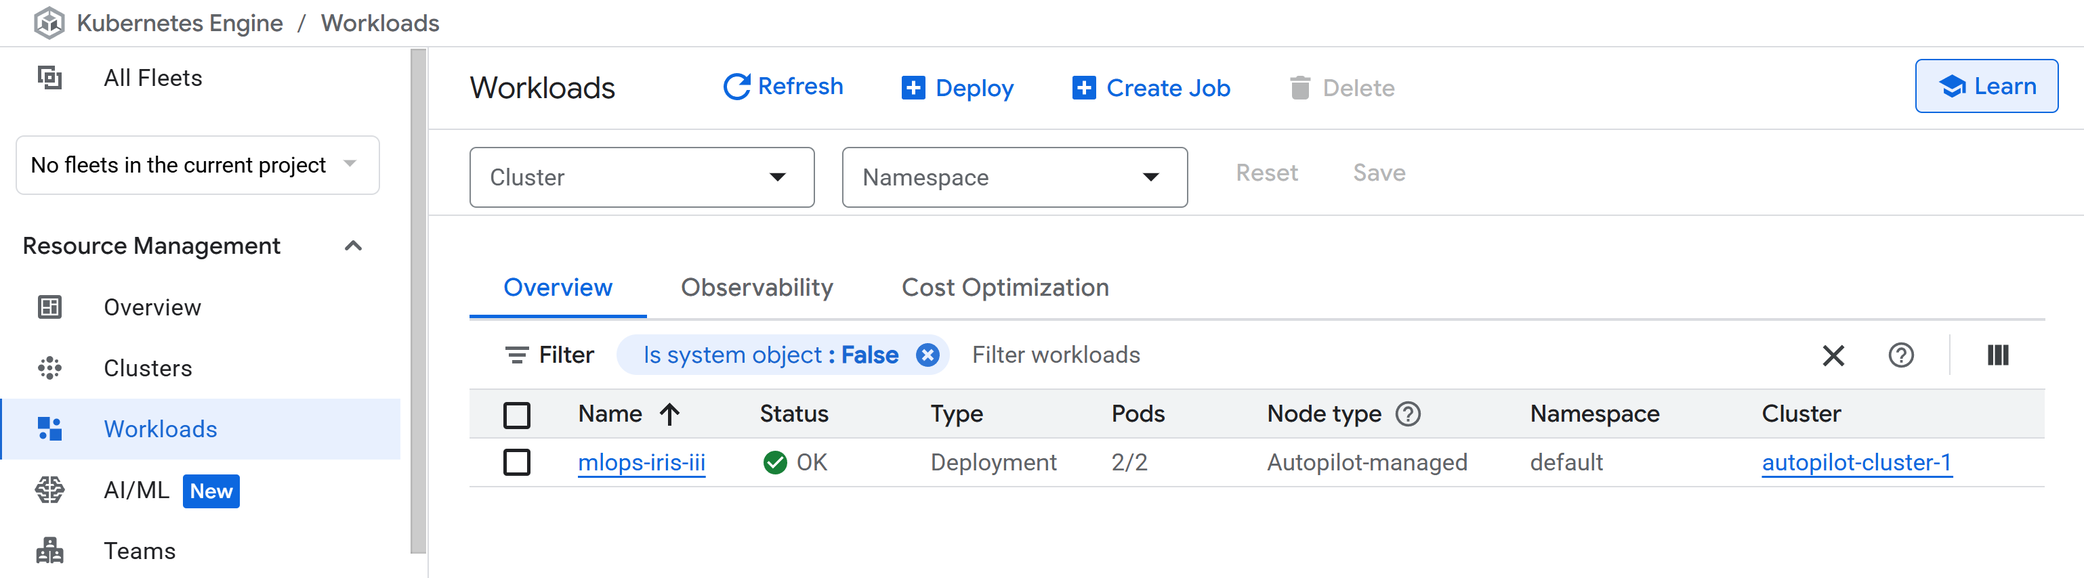
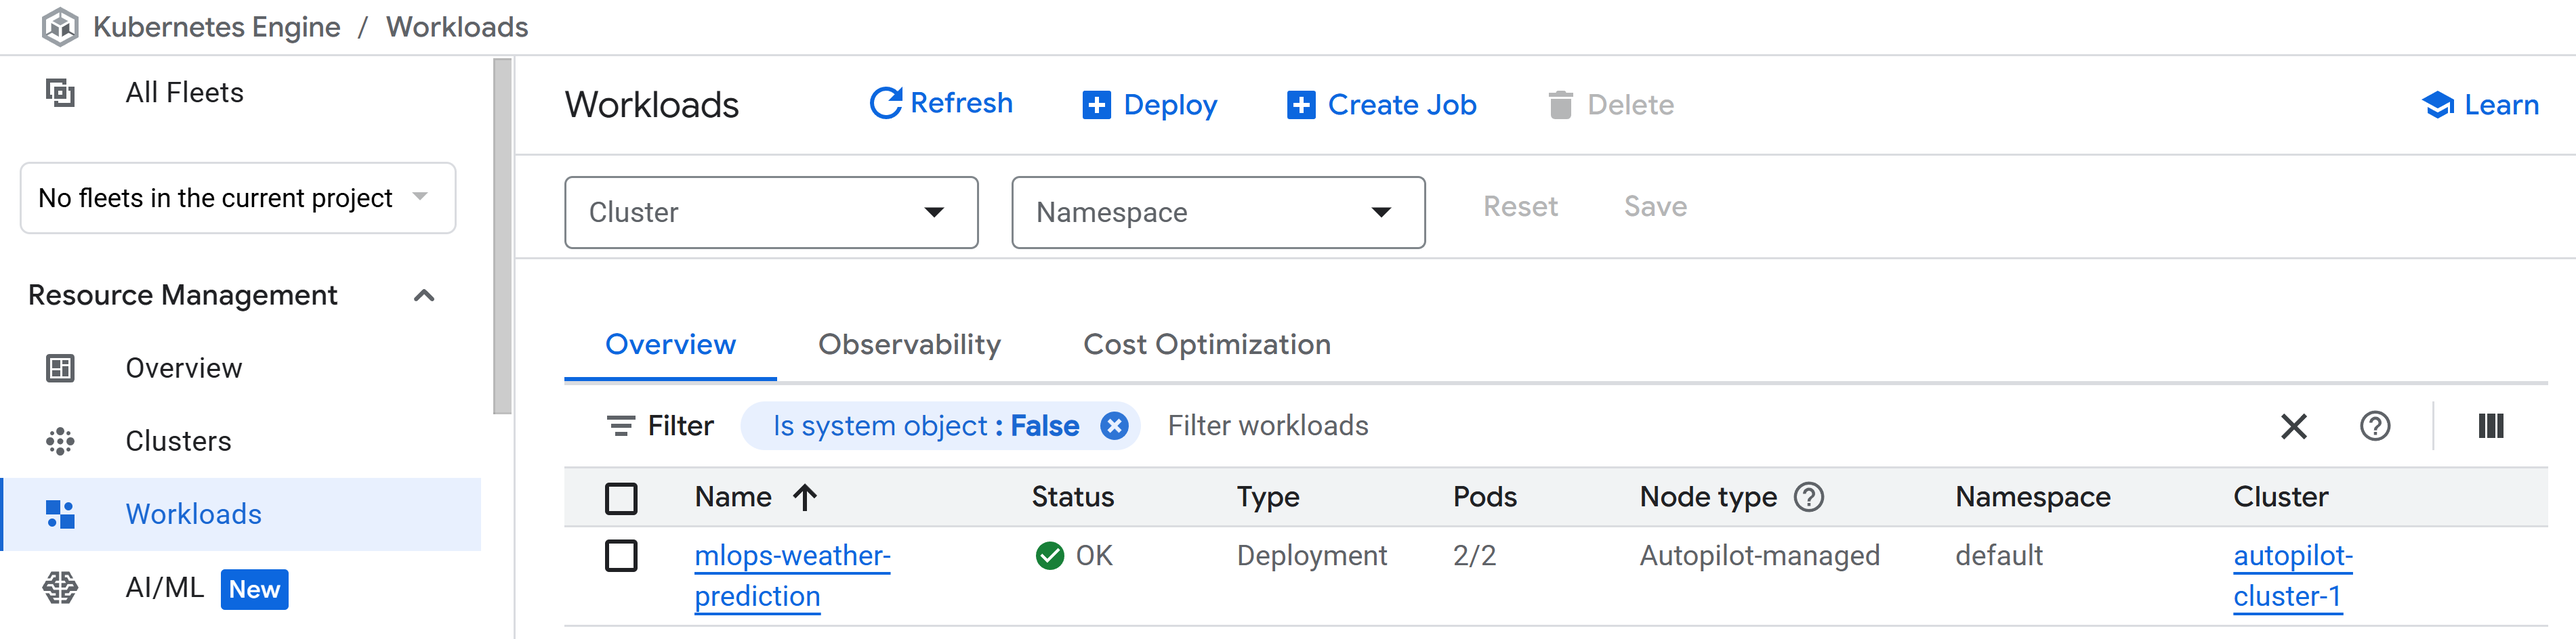
github actions stage complete

diff --git a/README.md b/README.md
@@ -1,166 +1,163 @@
+# 🌦 **MLOps Weather Prediction — End-to-End CI/CD Deployment (GitHub Actions Edition)**
 
-# 🌸 **MLOps Iris Classifier — End-to-End CI/CD Deployment (GitHub Actions Edition)**
-
-This repository demonstrates a **complete MLOps workflow** using the classic **Iris dataset**, progressing from data preprocessing and model training to full web deployment through an automated **CI/CD (Continuous Integration and Continuous Deployment)** pipeline built with **GitHub Actions** and deployed to **Google Cloud Platform (GCP)**.
+This repository demonstrates a **complete MLOps workflow** using a **weather dataset** to predict **“Will it rain tomorrow?”**, progressing from data preprocessing and model training to full web deployment through an automated **CI/CD (Continuous Integration and Continuous Deployment)** pipeline built with **GitHub Actions** and deployed to **Google Cloud Platform (GCP)**.
 
 <p align="center">
-  <img src="img/flask/flask_app.gif" alt="Deployed Flask Iris Classifier Application" style="width:100%; height:auto;" />
+  <img src="img/flask/flask_app.gif" alt="Deployed Flask Weather Prediction Application" style="width:100%; height:auto;" />
 </p>
 
-While the machine learning use case — **Iris species classification** — is intentionally simple, the project’s main objective is to showcase a **production-grade MLOps workflow** using **GitHub Actions** for automation, containerisation, and cloud deployment via **Google Kubernetes Engine (GKE)**.
+While the prediction task — **rain-tomorrow classification** — is intentionally simple, the project’s core objective is to demonstrate a **production-grade MLOps pipeline** using **GitHub Actions** for automation, containerisation, and deployment through **Google Kubernetes Engine (GKE)**.
 
 ## 🧩 **Project Overview**
 
-This project walks through the **entire lifecycle** of a machine learning system — from raw data to live deployment — using a modular, reproducible, and scalable architecture.
-Each stage builds on the previous one, ensuring consistent execution and traceability throughout the pipeline.
+This project covers the **entire machine learning lifecycle** — from raw data ingestion to live cloud deployment — using a modular, reproducible, and scalable design. Each stage builds on the previous one to ensure seamless execution, traceability, and maintainability.
 
 ### 🌱 **Stage 00 — Project Setup**
 
-A structured repository layout was established, introducing:
+A structured and maintainable repository was created with:
 
 * Core directories: `src/`, `pipeline/`, `artifacts/`, and `img/`
-* Dependency management with **`uv`** for reproducible environments
-* Editable package installation via `setup.py`
-* Logging and exception-handling frameworks for traceable experimentation
+* Dependency management via **`uv`** for environment reproducibility
+* Editable package installation through `setup.py`
+* Unified logging and exception-handling modules for transparency and debugging
 
-This created the foundation for the remaining stages.
+This laid the groundwork for a robust, production-aligned MLOps pipeline.
 
-### 💾 **Stage 01 — Data Processing**
+### 🌦 **Stage 01 — Data Processing**
 
-The **`data_processing.py`** module handled the complete preprocessing workflow:
+The **`data_processing.py`** module handled the core preprocessing steps:
 
-* Loading and cleaning the Iris dataset
-* Handling outliers and missing values
-* Splitting data into training and test sets
-* Persisting processed artefacts (`X_train.pkl`, `y_test.pkl`, etc.)
+* Loading and cleaning the weather dataset
+* Handling missing values and encoding categorical variables
+* Splitting into training and test sets
+* Persisting artefacts for reproducible experiments (`X_train.pkl`, `y_test.pkl`, etc.)
 
-All transformations were reproducible and logged to ensure consistent results.
+All transformations were logged to ensure reproducibility and transparency.
 
 ### 🧠 **Stage 02 — Model Training**
 
-The **`model_training.py`** module trained a **Decision Tree Classifier** and performed model evaluation, generating key metrics:
+The **`model_training.py`** module trained an **XGBoost classifier** to predict **RainTomorrow**, and evaluated model performance using standard classification metrics:
 
 * Accuracy, precision, recall, and F1-score
-* A confusion matrix (`confusion_matrix.png`)
-* A serialised model file (`model.pkl`)
+* Confusion matrix visualisation (`confusion_matrix.png`)
+* Serialised model file (`model.pkl`)
 
-Exception handling and centralised logging ensured reliability during training.
+All operations were wrapped in structured exception handling and logged for auditability.
 
-### 🌸 **Stage 03 — Flask Application**
+### 🌈 **Stage 03 — Flask Application**
 
-A **Flask web interface** was built to deploy the trained model as an interactive web app.
-Users can input sepal and petal dimensions and receive predictions in real time.
+A **Flask web app** was developed to deploy the trained model through a minimal, user-friendly interface.
 
-This stage introduced:
+Users can input simple weather data (Location, Date, Min/Max Temp, Humidity3pm, WindSpeed3pm, optional Rainfall) while the app **infers all other features automatically** using season-aware rules before predicting rainfall likelihood.
 
-* A responsive HTML front-end (`templates/index.html`)
-* CSS styling (`static/style.css`)
-* Flask integration via `app.py` for live inference
+Key components:
+
+* Responsive UI (`templates/index.html`)
+* Modern CSS design (`static/style.css`)
+* Flask backend for live model inference (`app.py`)
 
 <p align="center">
-  <img src="img/flask/flask_app.png" alt="Flask Iris Classifier Application" style="width:100%; height:auto;" />
+  <img src="img/flask/flask_app.png" alt="Flask Weather Prediction Application" style="width:100%; height:auto;" />
 </p>
 
 ### ⚙ **Stage 04 — Training Pipeline**
 
-The **`pipeline/training_pipeline.py`** script unified **data processing** and **model training** into a single orchestrated pipeline, automating every key step.
-
-It provides a reproducible execution workflow that can be triggered locally or by external automation tools (e.g. CI/CD).
-This was the bridge between local experimentation and cloud automation.
+The **`pipeline/training_pipeline.py`** script combined **data preprocessing** and **model training** into a unified workflow that can be executed locally or via CI/CD.
+This provided a **single orchestration layer** bridging local experimentation and automated cloud deployment.
 
 ### ☁ **Stage 05 — Google Cloud Platform (GCP) Setup**
 
-The cloud infrastructure was configured within **Google Cloud Platform** to support containerised ML workloads.
+The cloud infrastructure was prepared in **Google Cloud Platform** to host containerised workloads and manage deployments via **GKE Autopilot**.
 
-Key setup tasks included:
+Setup steps included:
 
-* Enabling APIs for **Kubernetes Engine**, **Artifact Registry**, and **Compute Engine**
-* Creating an **Artifact Registry** repository (`mlops-iris-iii`) in `us-central1`
-* Generating a **Service Account** with roles for Artifact Registry and Kubernetes deployment
-* Creating a **GKE Autopilot cluster** (`autopilot-cluster-1`) for managed workloads
+* Enabling essential APIs: **Kubernetes Engine**, **Artifact Registry**, and **Compute Engine**
+* Creating an **Artifact Registry** (`mlops-weather-prediction`) in `us-central1`
+* Setting up a **Service Account** with appropriate IAM roles
+* Creating a **GKE Autopilot cluster** (`autopilot-cluster-1`) for deployment
 
-This established the secure, scalable backbone for automated deployment.
+This established a secure, scalable environment for CI/CD and MLOps operations.
 
 ### 🚀 **Stage 06 — CI/CD Deployment (GitHub Actions → GCP)**
 
-Finally, the project integrated **GitHub Actions** to automate the build-and-deploy workflow.
-Each push to the `main` branch triggers the pipeline defined in **`.github/workflows/deploy.yml`**.
+The final stage introduced **GitHub Actions** to automate the build, test, and deploy cycle.
+Each push to the `main` branch triggers a complete end-to-end pipeline defined in **`.github/workflows/deploy.yml`**.
 
-The CI/CD sequence:
+The workflow performs:
 
-1. **Build** — Create a Docker image for the Flask app using the `Dockerfile`
+1. **Build** — Construct a Docker image for the Flask app using the project’s `Dockerfile`
 2. **Push** — Upload the image to **Google Artifact Registry**
-3. **Deploy** — Apply `kubernetes-deployment.yaml` to **GKE** to update the live application
+3. **Deploy** — Apply `kubernetes-deployment.yaml` to **GKE**, updating the live service
 
-The pipeline uses the official **`google-github-actions`** modules for authentication, image management, and Kubernetes deployment.
+Authentication, image management, and deployment are handled via official **`google-github-actions`** modules.
 
 <p align="center">
   <img src="img/github_actions/workflow_success.png" alt="GitHub Actions Workflow Success" style="width:100%; height:auto;" />
 </p>
 
-Once completed, the application becomes publicly available through the external **LoadBalancer endpoint** exposed by GKE.
+Once the workflow completes successfully, the live application becomes accessible via the external **LoadBalancer endpoint** created by GKE.
 
 ## 💡 **Why GitHub Actions?**
 
-GitHub Actions was chosen for its **tight integration**, **ease of setup**, and **robust cloud support**.
+GitHub Actions was selected for its **simplicity**, **integration**, and **seamless GCP compatibility** — ideal for reproducible MLOps pipelines.
 
 ### ✅ **Key Advantages**
 
-* **Native integration** — workflows trigger automatically on push or pull requests
-* **Simple YAML configuration** stored under `.github/workflows/`
-* **Secure secret management** through repository settings
-* **First-class GCP support** with official authentication actions
-* **Zero-infrastructure overhead** — runs on GitHub-hosted runners
-* **Fast, scalable execution** — ideal for iterative machine learning workflows
+* **Native GitHub integration** — triggers on push, pull request, or schedule
+* **Lightweight YAML workflow definitions** under `.github/workflows/`
+* **Secure secret management** via GitHub repository settings
+* **First-class support** for GCP authentication and deployment
+* **Zero infrastructure management** with hosted runners
+* **Fast execution and rich logs** for debugging and monitoring
 
-These features make **GitHub Actions** a clean, lightweight, and powerful choice for modern CI/CD in MLOps.
+GitHub Actions offers a clean, unified experience for building, testing, and deploying MLOps workloads without maintaining additional CI servers.
 
 ## 🗂 **Final Project Structure**
 
 ```text
-mlops_iris_classifier/
+mlops_weather_prediction/
 ├── .venv/                          # 🧩 Local virtual environment (created by uv)
-├── artifacts/                      # 💾 Raw, processed, and model artefacts
+├── artifacts/                      # 💾 Data, processed artefacts, and model outputs
 │   ├── raw/
 │   ├── processed/
 │   └── models/
 ├── pipeline/
-│   └── training_pipeline.py         # Unified data processing + model training
+│   └── training_pipeline.py         # Unified data preprocessing + model training
 ├── src/
 │   ├── data_processing.py
 │   ├── model_training.py
 │   ├── logger.py
 │   └── custom_exception.py
 ├── templates/
-│   └── index.html                  # Flask UI
+│   └── index.html                   # Flask front-end UI
 ├── static/
 │   ├── style.css
 │   └── img/app_background.jpg
 ├── img/
-│   ├── flask/flask_app.gif         # Animated Flask app demo
-│   ├── github_actions/             # Screenshots for GitHub + GCP setup
+│   ├── flask/flask_app.gif          # Animated UI demo
+│   ├── github_actions/              # GitHub Actions + GCP screenshots
 │   └── gcp/
-├── Dockerfile                      # 🐳 Container image definition
-├── kubernetes-deployment.yaml      # ☸ Kubernetes deployment specification
+├── Dockerfile                       # 🐳 Container image definition for Flask app
+├── kubernetes-deployment.yaml       # ☸ Kubernetes Deployment + Service config
 ├── .github/
 │   └── workflows/
-│       └── deploy.yml              # ⚙ GitHub Actions CI/CD pipeline
-├── app.py                          # Flask application entry point
-├── pyproject.toml                  # Project metadata and dependencies
-├── setup.py                        # Editable install support
-└── requirements.txt                # Python dependencies
+│       └── deploy.yml               # ⚙ GitHub Actions workflow definition
+├── app.py                           # Flask application entry point
+├── pyproject.toml                   # Project metadata
+├── setup.py                         # Editable installation
+└── requirements.txt                 # Dependencies
 ```
 
 ## 🌐 **End-to-End Workflow Summary**
 
-1. **Data Processing** → clean, split, and persist artefacts
-2. **Model Training** → train and evaluate the Decision Tree Classifier
-3. **Flask Application** → serve predictions via web interface
-4. **Pipeline Orchestration** → unify preprocessing + training
-5. **GCP Setup** → configure cluster, registry, and permissions
-6. **CI/CD Deployment** → automate build → push → deploy to GKE
+1. **Data Processing** → Clean, encode, and save processed data
+2. **Model Training** → Train, evaluate, and export the XGBoost model
+3. **Flask Application** → Serve predictions interactively
+4. **Pipeline Orchestration** → Combine preprocessing + training
+5. **GCP Setup** → Configure registry, service account, and cluster
+6. **CI/CD Deployment** → Automate build → push → deploy via GitHub Actions
 
 ## ✅ **In Summary**
 
-This project transforms a simple Iris classification task into a **fully automated MLOps pipeline** using **GitHub Actions** and **Google Cloud Platform**.
-It demonstrates how to take a traditional ML workflow — data, model, and app — and operationalise it through a reproducible, cloud-native CI/CD system that delivers scalable, production-ready deployments with every code push.
+This project turns a straightforward **weather classification problem** into a **fully automated MLOps system**.
+It showcases how to **operationalise machine learning pipelines** using **GitHub Actions** and **Google Cloud Platform**, covering every phase — from data ingestion to scalable cloud deployment — in a **reproducible, production-ready** workflow.
